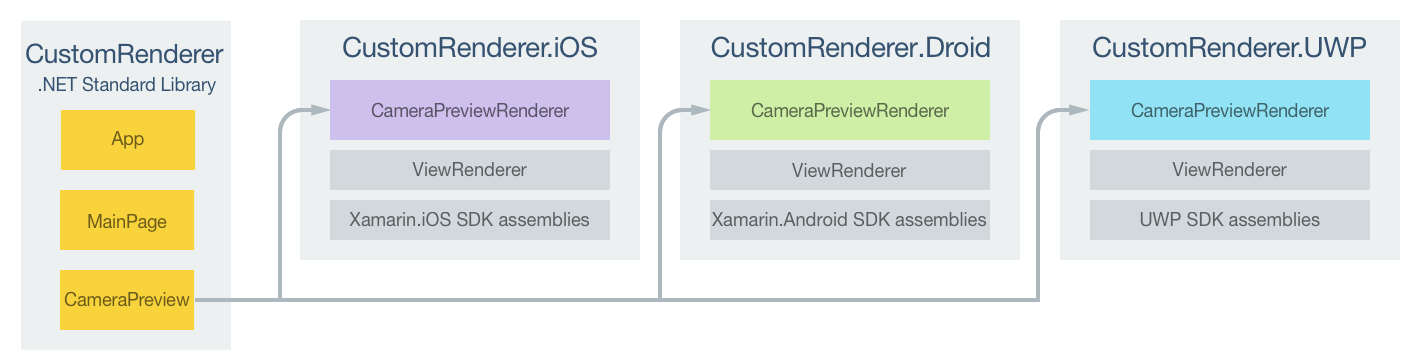
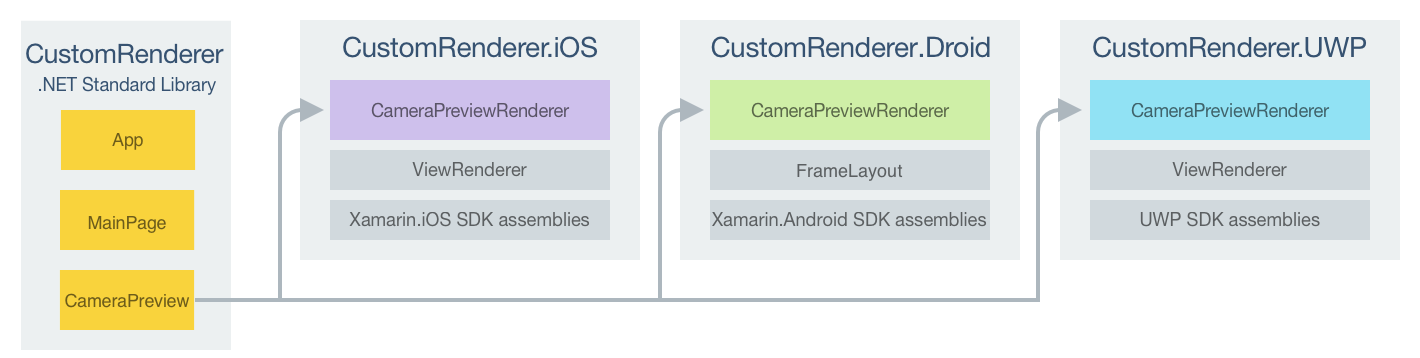
Forms issues (#1890)
* Important > Note.

* Update to Camera2 API.

* Text simplification.

* Suggestions fixed.

diff --git a/docs/xamarin-forms/app-fundamentals/custom-renderer/view.md b/docs/xamarin-forms/app-fundamentals/custom-renderer/view.md
@@ -6,7 +6,7 @@ ms.assetid: 915E25E7-4A6B-4F34-B7B4-07D5F4B240F2
 ms.technology: xamarin-forms
 author: davidbritch
 ms.author: dabritch
-ms.date: 05/10/2018
+ms.date: 10/30/2020
 no-loc: [Xamarin.Forms, Xamarin.Essentials]
 ---
 # Implementing a View
@@ -16,6 +16,9 @@ no-loc: [Xamarin.Forms, Xamarin.Essentials]
 _Xamarin.Forms custom user interface controls should derive from the View class, which is used to place layouts and controls on the screen. This article demonstrates how to create a custom renderer for a Xamarin.Forms custom control that's used to display a preview video stream from the device's camera._
 
 Every Xamarin.Forms view has an accompanying renderer for each platform that creates an instance of a native control. When a [`View`](xref:Xamarin.Forms.View) is rendered by a Xamarin.Forms application in iOS, the `ViewRenderer` class is instantiated, which in turn instantiates a native `UIView` control. On the Android platform, the `ViewRenderer` class instantiates a native `View` control. On the Universal Windows Platform (UWP), the `ViewRenderer` class instantiates a native `FrameworkElement` control. For more information about the renderer and native control classes that Xamarin.Forms controls map to, see [Renderer Base Classes and Native Controls](~/xamarin-forms/app-fundamentals/custom-renderer/renderers.md).
+
+> [!NOTE]
+> Some controls on Android use fast renderers, which don't consume the `ViewRenderer` class. For more information about fast renderers, see [Xamarin.Forms Fast Renderers](~/xamarin-forms/internals/fast-renderers.md).
 
 The following diagram illustrates the relationship between the [`View`](xref:Xamarin.Forms.View) and the corresponding native controls that implement it:
 
@@ -42,7 +45,8 @@ public class CameraPreview : View
     declaringType: typeof(CameraPreview),
     defaultValue: CameraOptions.Rear);
 
-  public CameraOptions Camera {
+  public CameraOptions Camera
+  {
     get { return (CameraOptions)GetValue (CameraProperty); }
     set { SetValue (CameraProperty, value); }
   }
@@ -59,13 +63,12 @@ The `CameraPreview` custom control can be referenced in XAML in the .NET Standar
 <ContentPage ...
              xmlns:local="clr-namespace:CustomRenderer;assembly=CustomRenderer"
              ...>
-    <ContentPage.Content>
-        <StackLayout>
-            <Label Text="Camera Preview:" />
-            <local:CameraPreview Camera="Rear"
-              HorizontalOptions="FillAndExpand" VerticalOptions="FillAndExpand" />
-        </StackLayout>
-    </ContentPage.Content>
+    <StackLayout>
+        <Label Text="Camera Preview:" />
+        <local:CameraPreview Camera="Rear"
+                             HorizontalOptions="FillAndExpand"
+                             VerticalOptions="FillAndExpand" />
+    </StackLayout>
 </ContentPage>
 ```
 
@@ -79,10 +82,13 @@ public class MainPageCS : ContentPage
   public MainPageCS ()
   {
     ...
-    Content = new StackLayout {
-      Children = {
+    Content = new StackLayout
+    {
+      Children =
+      {
         new Label { Text = "Camera Preview:" },
-        new CameraPreview {
+        new CameraPreview
+        {
           Camera = CameraOptions.Rear,
           HorizontalOptions = LayoutOptions.FillAndExpand,
           VerticalOptions = LayoutOptions.FillAndExpand
@@ -99,10 +105,16 @@ A custom renderer can now be added to each application project to create platfor
 
 ## Creating the Custom Renderer on each Platform
 
-The process for creating the custom renderer class is as follows:
+The process for creating the custom renderer class on iOS and UWP is as follows:
 
 1. Create a subclass of the `ViewRenderer<T1,T2>` class that renders the custom control. The first type argument should be the custom control the renderer is for, in this case `CameraPreview`. The second type argument should be the native control that will implement the custom control.
 1. Override the `OnElementChanged` method that renders the custom control and write logic to customize it. This method is called when the corresponding Xamarin.Forms control is created.
+1. Add an `ExportRenderer` attribute to the custom renderer class to specify that it will be used to render the Xamarin.Forms custom control. This attribute is used to register the custom renderer with Xamarin.Forms.
+
+The process for creating the custom renderer class on Android, as a fast renderer, is as follows:
+
+1. Create a subclass of the Android control that renders the custom control. In addition, specify that the subclass will implement the `IVisualElementRenderer` and `IViewRenderer` interfaces.
+1. Implement the `IVisualElementRenderer` and `IViewRenderer` interfaces in the fast renderer class.
 1. Add an `ExportRenderer` attribute to the custom renderer class to specify that it will be used to render the Xamarin.Forms custom control. This attribute is used to register the custom renderer with Xamarin.Forms.
 
 > [!NOTE]
@@ -112,7 +124,7 @@ The following diagram illustrates the responsibilities of each project in the sa
 
 ![CameraPreview Custom Renderer Project Responsibilities](view-images/solution-structure.png)
 
-The `CameraPreview` custom control is rendered by platform-specific renderer classes, which all derive from the `ViewRenderer` class for each platform. This results in each `CameraPreview` custom control being rendered with platform-specific controls, as shown in the following screenshots:
+The `CameraPreview` custom control is rendered by platform-specific renderer classes, which derive from the `ViewRenderer` class on iOS and UWP, and from the `FrameLayout` class on Android. This results in each `CameraPreview` custom control being rendered with platform-specific controls, as shown in the following screenshots:
 
 ![CameraPreview on each Platform](view-images/screenshots.png)
 
@@ -127,12 +139,15 @@ protected override void OnElementChanged (ElementChangedEventArgs<NativeListView
 {
   base.OnElementChanged (e);
 
-  if (e.OldElement != null) {
+  if (e.OldElement != null)
+  {
     // Unsubscribe from event handlers and cleanup any resources
   }
 
-  if (e.NewElement != null) {
-    if (Control == null) {
+  if (e.NewElement != null)
+  {    
+    if (Control == null)
+    {
       // Instantiate the native control and assign it to the Control property with
       // the SetNativeControl method
     }
@@ -199,62 +214,89 @@ Provided that the `Control` property is `null`, the `SetNativeControl` method is
 
 ### Creating the Custom Renderer on Android
 
-The following code example shows the custom renderer for the Android platform:
+The following code example shows the fast renderer for the Android platform:
 
 ```csharp
 [assembly: ExportRenderer(typeof(CustomRenderer.CameraPreview), typeof(CameraPreviewRenderer))]
 namespace CustomRenderer.Droid
 {
-    public class CameraPreviewRenderer : ViewRenderer<CustomRenderer.CameraPreview, CustomRenderer.Droid.CameraPreview>
+    public class CameraPreviewRenderer : FrameLayout, IVisualElementRenderer, IViewRenderer
     {
-        CameraPreview cameraPreview;
+        // ...
+        CameraPreview element;
+        VisualElementTracker visualElementTracker;
+        VisualElementRenderer visualElementRenderer;
+        FragmentManager fragmentManager;
+        CameraFragment cameraFragment;
+
+        FragmentManager FragmentManager => fragmentManager ??= Context.GetFragmentManager();
+
+        public event EventHandler<VisualElementChangedEventArgs> ElementChanged;
+        public event EventHandler<PropertyChangedEventArgs> ElementPropertyChanged;
+
+        CameraPreview Element
+        {
+            get => element;
+            set
+            {
+                if (element == value)
+                {
+                    return;
+                }
+
+                var oldElement = element;
+                element = value;
+                OnElementChanged(new ElementChangedEventArgs<CameraPreview>(oldElement, element));
+            }
+        }
 
         public CameraPreviewRenderer(Context context) : base(context)
         {
+            visualElementRenderer = new VisualElementRenderer(this);
         }
 
-        protected override void OnElementChanged(ElementChangedEventArgs<CustomRenderer.CameraPreview> e)
+        void OnElementChanged(ElementChangedEventArgs<CameraPreview> e)
         {
-            base.OnElementChanged(e);
+            CameraFragment newFragment = null;
 
             if (e.OldElement != null)
             {
-                // Unsubscribe
-                cameraPreview.Click -= OnCameraPreviewClicked;
+                e.OldElement.PropertyChanged -= OnElementPropertyChanged;
+                cameraFragment.Dispose();
             }
             if (e.NewElement != null)
             {
-                if (Control == null)
-                {
-                  cameraPreview = new CameraPreview(Context);
-                  SetNativeControl(cameraPreview);
-                }
-                Control.Preview = Camera.Open((int)e.NewElement.Camera);
+                this.EnsureId();
 
-                // Subscribe
-                cameraPreview.Click += OnCameraPreviewClicked;
+                e.NewElement.PropertyChanged += OnElementPropertyChanged;
+
+                ElevationHelper.SetElevation(this, e.NewElement);
+                newFragment = new CameraFragment { Element = element };
             }
+
+            FragmentManager.BeginTransaction()
+                .Replace(Id, cameraFragment = newFragment, "camera")
+                .Commit();
+            ElementChanged?.Invoke(this, new VisualElementChangedEventArgs(e.OldElement, e.NewElement));
         }
 
-        void OnCameraPreviewClicked(object sender, EventArgs e)
+        async void OnElementPropertyChanged(object sender, PropertyChangedEventArgs e)
         {
-            if (cameraPreview.IsPreviewing)
+            ElementPropertyChanged?.Invoke(this, e);
+
+            switch (e.PropertyName)
             {
-                cameraPreview.Preview.StopPreview();
-                cameraPreview.IsPreviewing = false;
+                case "Width":
+                    await cameraFragment.RetrieveCameraDevice();
+                    break;
             }
-            else
-            {
-                cameraPreview.Preview.StartPreview();
-                cameraPreview.IsPreviewing = true;
-            }
-        }
-        ...
+        }       
+        // ...
     }
 }
 ```
 
-Provided that the `Control` property is `null`, the `SetNativeControl` method is called to instantiate a new `CameraPreview` control and assign a reference to it to the `Control` property. The `CameraPreview` control is a platform-specific custom control that uses the `Camera` API to provide the preview stream from the camera. The `CameraPreview` control is then configured, provided that the custom renderer is attached to a new Xamarin.Forms element. This configuration involves creating a new native `Camera` object to access a particular hardware camera, and registering an event handler to process the `Click` event. In turn this handler will stop and start the video preview when it's tapped. The `Click` event is unsubscribed from if the Xamarin.Forms element the renderer is attached to changes.
+In this example, the `OnElementChanged` method creates a `CameraFragment` object, provided that the custom renderer is attached to a new Xamarin.Forms element. The `CameraFragment` type is a custom class that uses the `Camera2` API to provide the preview stream from the camera. The `CameraFragment` object is disposed of when the Xamarin.Forms element the renderer is attached to changes.
 
 ### Creating the Custom Renderer on UWP
 

diff --git a/docs/xamarin-forms/app-fundamentals/templates/control-template.md b/docs/xamarin-forms/app-fundamentals/templates/control-template.md
@@ -165,7 +165,7 @@ The following screenshots show the `CardViewControlTemplate` applied to the thre
 The `TemplateBinding` markup extension binds a property of an element that is in a [`ControlTemplate`](xref:Xamarin.Forms.ControlTemplate) to a public property that is defined by the templated custom control or templated page. When you use a `TemplateBinding`, you enable properties on the control to act as parameters to the template. Therefore, when a property on a templated custom control or templated page is set, that value is passed onto the element that has the `TemplateBinding` on it.
 
 > [!IMPORTANT]
-> The `TemplateBinding` markup extension is an alternative to creating a [`ControlTemplate`](xref:Xamarin.Forms.ControlTemplate) that uses the `RelativeSource` markup extension to set the `BindingContext` of the root element in the template to its templated parent. The `TemplateBinding` markup extension eliminates the `RelativeSource` binding, and replaces the `Binding` expressions with `TemplateBinding` expressions.
+> The `TemplateBinding` markup expression enables the `RelativeSource` binding from the previous control template to be removed, and replaces the `Binding` expressions.
 
 The `TemplateBinding` markup extension defines the following properties:
 
@@ -246,7 +246,7 @@ The following XAML example shows a [`ControlTemplate`](xref:Xamarin.Forms.Contro
 
 In this example, the `TemplateBinding` markup extension resolves binding expressions against the properties of each `CardView` object. The following screenshots show the `CardViewControlTemplate` applied to the three `CardView` objects:
 
-[![Screenshots of templated CardView objects, on iOS and Android](control-template-images/templatebinding-controltemplate.png "Templated CardView objects")](control-template-images/templatebinding-controltemplate-large.png#lightbox "Templated CardView objects")
+[![Screenshots of templated CardView objects](control-template-images/templatebinding-controltemplate.png "Templated CardView objects")](control-template-images/templatebinding-controltemplate-large.png#lightbox "Templated CardView objects")
 
 > [!IMPORTANT]
 > Using the `TemplateBinding` markup extension is equivalent to setting the `BindingContext` of the root element in the template to its templated parent with the `RelativeSource` markup extension, and then resolving bindings of child objects with the `Binding` markup extension. In fact, the `TemplateBinding` markup extension creates a `Binding` whose `Source` is `RelativeBindingSource.TemplatedParent`.
@@ -542,7 +542,7 @@ public partial class AccessTemplateElementPage : HeaderFooterPage
 
 In this example, the [`Label`](xref:Xamarin.Forms.Label) object named `changeThemeLabel` is retrieved once the `ControlTemplate` has been instantiated. `changeThemeLabel` can then be accessed and manipulated by the `AccessTemplateElementPage` class. The following screenshots show that the text displayed by the `Label` has been changed:
 
-[![Screenshots of templated page object, on iOS and Android](control-template-images/get-named-element.png "Templated ContentPage")](control-template-images/get-named-element-large.png#lightbox "Templated ContentPage")
+[![Screenshots of templated page object](control-template-images/get-named-element.png "Templated ContentPage")](control-template-images/get-named-element-large.png#lightbox "Templated ContentPage")
 
 ## Bind to a viewmodel
 
@@ -618,13 +618,13 @@ In this example, the `BindingContext` of the page is set to a `PeopleViewModel` 
 
 In this example, the root element of the [`ControlTemplate`](xref:Xamarin.Forms.ControlTemplate) is a [`Frame`](xref:Xamarin.Forms.Frame) object. The `Frame` object uses the `RelativeSource` markup extension to set its `BindingContext` to the templated parent. The binding expressions of the `Frame` object and its children resolve against `CardView` properties, due to inheriting the `BindingContext` from the root `Frame` element. The following screenshots show the page displaying the `People` collection, which consists of three items:
 
-[![Screenshots of templated CardView objects, on iOS and Android](control-template-images/viewmodel-controltemplate.png "Templated CardView objects")](control-template-images/viewmodel-controltemplate-large.png#lightbox "Templated CardView objects")
+[![Screenshots of three templated CardView objects](control-template-images/viewmodel-controltemplate.png "Templated CardView objects")](control-template-images/viewmodel-controltemplate-large.png#lightbox "Templated CardView objects")
 
 While the objects in the [`ControlTemplate`](xref:Xamarin.Forms.ControlTemplate) bind to properties on its templated parent, the [`Button`](xref:Xamarin.Forms.Button) within the control template binds to both its templated parent, and to the `DeletePersonCommand` in the viewmodel. This is because the `Button.Command` property redefines its binding source to be the binding context of the ancestor whose binding context type is `PeopleViewModel`, which is the [`StackLayout`](xref:Xamarin.Forms.StackLayout). The `Path` part of the binding expressions can then resolve the `DeletePersonCommand` property. However, the `Button.CommandParameter` property doesn't alter its binding source, instead inheriting it from its parent in the [`ControlTemplate`](xref:Xamarin.Forms.ControlTemplate). Therefore, the `CommandParameter` property binds to the `CardTitle` property of the `CardView`.
 
 The overall effect of the [`Button`](xref:Xamarin.Forms.Button) bindings is that when the `Button` is tapped, the `DeletePersonCommand` in the `PeopleViewModel` class is executed, with the value of the `CardName` property being passed to the `DeletePersonCommand`. This results in the specified `CardView` being removed from the bindable layout:
 
-[![Screenshots of templated CardView objects, on iOS and Android](control-template-images/viewmodel-itemdeleted.png "Templated CardView objects")](control-template-images/viewmodel-itemdeleted-large.png#lightbox "Templated CardView objects")
+[![Screenshots of two templated CardView objects](control-template-images/viewmodel-itemdeleted.png "Templated CardView objects")](control-template-images/viewmodel-itemdeleted-large.png#lightbox "Templated CardView objects")
 
 For more information about relative bindings, see [Xamarin.Forms Relative Bindings](~/xamarin-forms/app-fundamentals/data-binding/relative-bindings.md).
 
